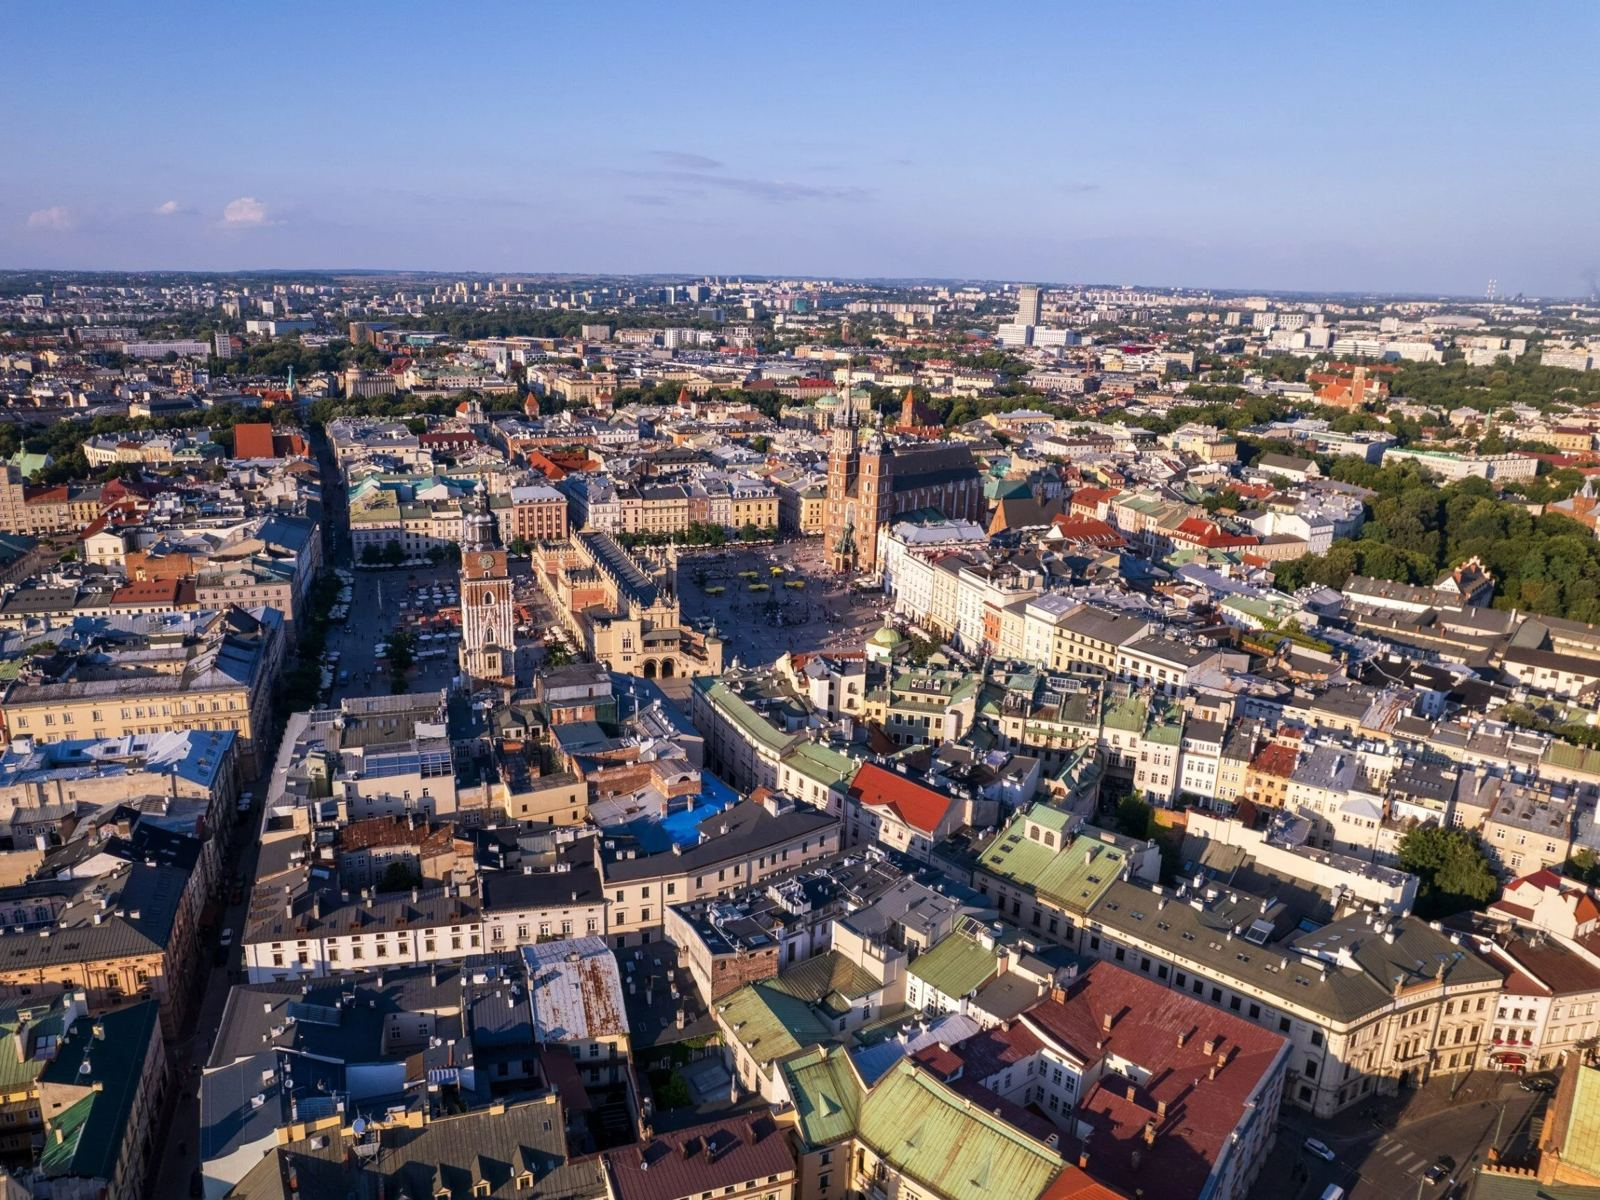
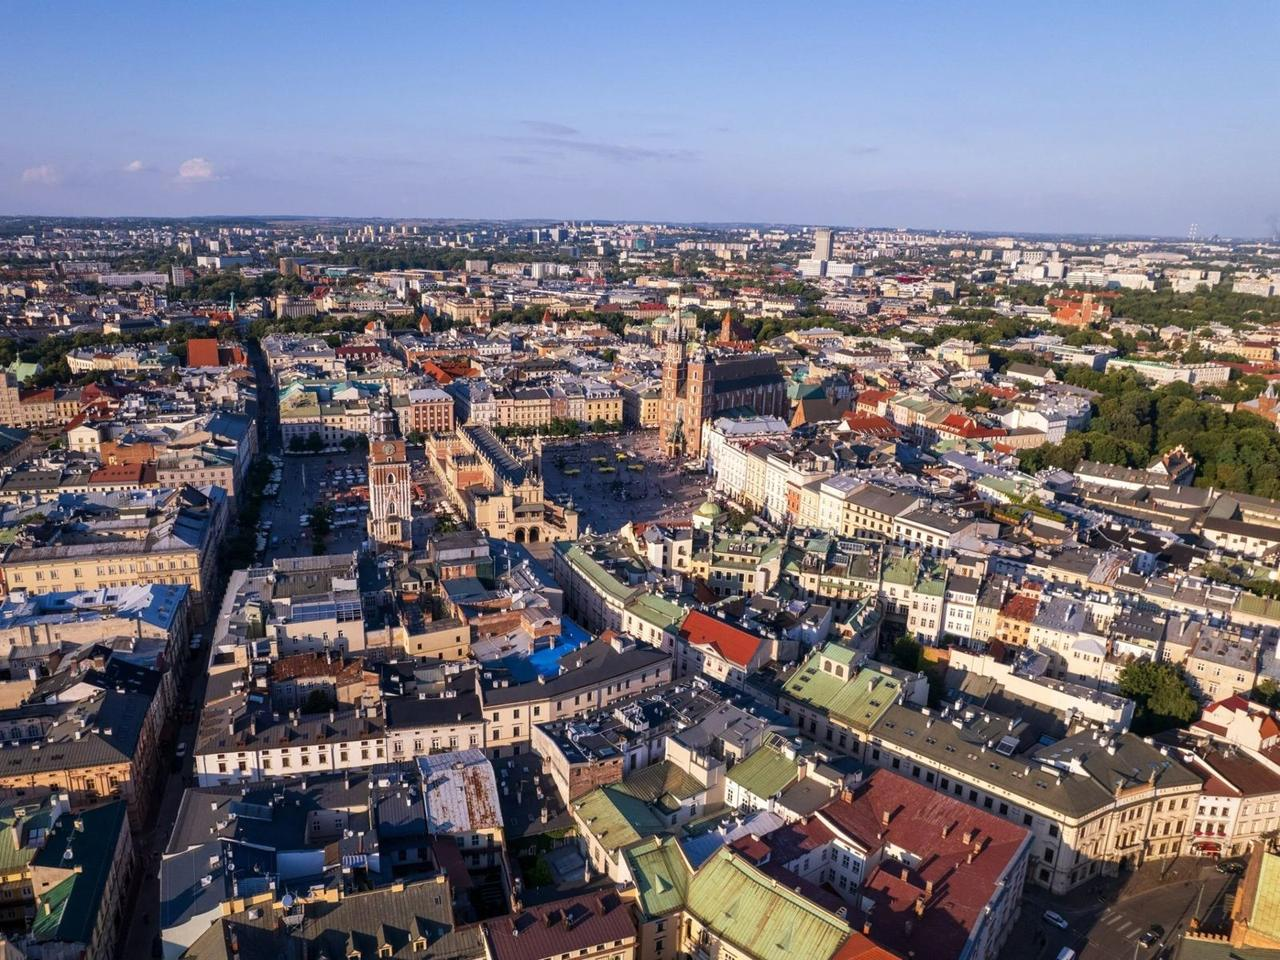
Słaby internet: schowek apki (service worker) na mapę, nagrania i stronę; doładowanie następnego nagrania; lżejsze zdjęcia strony głównej
Claude-Session: https://claude.ai/code/session_01RUaYWWQsk6rVw8nLuPwhe9

diff --git a/sw.js b/sw.js
@@ -1,0 +1,191 @@
+/* ============================================================
+   SERVICE WORKER — "schowek" apki w telefonie
+   Dzięki niemu na słabym internecie (albo bez internetu):
+   - apka otwiera się z pamięci telefonu, jeśli sieć nie odpowie w 4 sekundy,
+   - raz obejrzane kawałki mapy (kafelki) są brane z telefonu, a nie z sieci,
+   - raz odsłuchane / doładowane nagrania grają z telefonu.
+   Zmiana numeru wersji poniżej czyści stare schowki u wszystkich.
+============================================================ */
+const VERSION = 'v1';
+const SHELL = 'krakroam-shell-' + VERSION;   // sama apka (strona, ikony)
+const LIBS = 'krakroam-libs-' + VERSION;     // biblioteka mapy i czcionki z zewnętrznych serwerów
+const TILES = 'krakroam-tiles-' + VERSION;   // kafelki mapy
+const AUDIO = 'krakroam-audio-' + VERSION;   // nagrania
+const KEEP = [SHELL, LIBS, TILES, AUDIO];
+
+const MAX_TILES = 2500;            // ok. 50–80 MB zdjęć satelitarnych, starsze kasujemy
+const AUDIO_FRESH_MS = 3 * 24 * 3600 * 1000; // po 3 dniach sprawdzamy, czy nagranie nie zostało podmienione
+const PAGE_TIMEOUT_MS = 4000;
+
+const SHELL_FILES = ['/', '/manifest.json', '/icon-180.png', '/icon-192.png'];
+const LIB_FILES = [
+  'https://cdnjs.cloudflare.com/ajax/libs/leaflet/1.9.4/leaflet.min.css',
+  'https://cdnjs.cloudflare.com/ajax/libs/leaflet.markercluster/1.5.3/MarkerCluster.css',
+  'https://cdnjs.cloudflare.com/ajax/libs/leaflet.markercluster/1.5.3/MarkerCluster.Default.css',
+  'https://cdnjs.cloudflare.com/ajax/libs/leaflet/1.9.4/leaflet.min.js',
+  'https://cdnjs.cloudflare.com/ajax/libs/leaflet.markercluster/1.5.3/leaflet.markercluster.js'
+];
+
+self.addEventListener('install', event => {
+  event.waitUntil((async () => {
+    // każdy plik osobno — jeden nieudany nie blokuje reszty
+    const shell = await caches.open(SHELL);
+    await Promise.all(SHELL_FILES.map(u => shell.add(u).catch(() => {})));
+    const libs = await caches.open(LIBS);
+    await Promise.all(LIB_FILES.map(u => libs.add(u).catch(() => {})));
+    await self.skipWaiting();
+  })());
+});
+
+self.addEventListener('activate', event => {
+  event.waitUntil((async () => {
+    for (const k of await caches.keys()) if (!KEEP.includes(k)) await caches.delete(k);
+    await self.clients.claim();
+  })());
+});
+
+self.addEventListener('fetch', event => {
+  const req = event.request;
+  if (req.method !== 'GET') return;
+  const url = new URL(req.url);
+
+  if (url.origin === location.origin) {
+    if (req.mode === 'navigate') {
+      if (url.pathname === '/' || url.pathname === '/index.html') event.respondWith(pageResponse(req));
+      return;
+    }
+    if (url.pathname.startsWith('/audio/') && url.pathname.endsWith('.mp3')) {
+      event.respondWith(audioResponse(event, req));
+      return;
+    }
+    if (url.pathname.startsWith('/foto/') || SHELL_FILES.includes(url.pathname)) {
+      event.respondWith(staleWhileRevalidate(event, req, SHELL));
+    }
+    return;
+  }
+
+  if (url.hostname === 'server.arcgisonline.com' || url.hostname.endsWith('tile.openstreetmap.org')) {
+    event.respondWith(tileResponse(event, req));
+    return;
+  }
+  if (url.hostname === 'cdnjs.cloudflare.com' || url.hostname === 'fonts.gstatic.com') {
+    event.respondWith(cacheFirst(event, req, LIBS)); // adresy z numerem wersji — nigdy się nie zmieniają
+    return;
+  }
+  if (url.hostname === 'fonts.googleapis.com') {
+    event.respondWith(staleWhileRevalidate(event, req, LIBS));
+  }
+  // reszta (np. wyznaczanie trasy pieszej) idzie normalnie przez sieć
+});
+
+/* --- strona apki: najpierw sieć (żeby nowe wersje docierały od razu), a gdy sieć nie odpowie w 4 s — kopia z telefonu --- */
+async function pageResponse(req) {
+  const cache = await caches.open(SHELL);
+  const network = fetch(req).then(res => {
+    if (res.ok && !res.redirected) cache.put('/', res.clone());
+    return res;
+  });
+  const cached = await cache.match('/');
+  if (!cached) return network;
+  const timeout = new Promise(resolve => setTimeout(() => resolve(null), PAGE_TIMEOUT_MS));
+  const fast = await Promise.race([network.catch(() => null), timeout]);
+  return fast || cached;
+}
+
+/* --- kafelki mapy: z telefonu, a gdy ich nie ma — z sieci i od razu zapisujemy --- */
+const noCors = new Set(); // serwery bez zgody na zapis kafelków (CORS) — wtedy tylko pokazujemy, bez zapisu
+let tilePuts = 0;
+async function tileResponse(event, req) {
+  const cache = await caches.open(TILES);
+  const hit = await cache.match(req.url);
+  if (hit) return hit;
+  const host = new URL(req.url).hostname;
+  let res = null;
+  if (!noCors.has(host)) {
+    try { res = await fetch(req.url, { mode: 'cors', credentials: 'omit' }); } catch (_) {}
+  }
+  if (!res) {
+    res = await fetch(req); // gdy i to się nie uda, to po prostu nie ma sieci
+    noCors.add(host);
+    return res;
+  }
+  if (res.ok) {
+    event.waitUntil(cache.put(req.url, res.clone()).then(() => {
+      if (++tilePuts % 100 === 0) return trimCache(TILES, MAX_TILES);
+    }).catch(() => {}));
+  }
+  return res;
+}
+
+async function trimCache(name, max) {
+  const cache = await caches.open(name);
+  const keys = await cache.keys();
+  for (let i = 0; i < keys.length - max; i++) await cache.delete(keys[i]); // najstarsze są pierwsze
+}
+
+/* --- nagrania ---
+   Jest w telefonie → gramy z telefonu (także przewijanie).
+   Nie ma → gramy z sieci, a jeśli przyszedł cały plik, zapisujemy go przy okazji (bez pobierania drugi raz). */
+async function audioResponse(event, req) {
+  const cache = await caches.open(AUDIO);
+  const key = new URL(req.url).pathname;
+  const hit = await cache.match(key);
+  const fresh = hit && (Date.now() - (+hit.headers.get('x-saved-at') || 0) < AUDIO_FRESH_MS);
+  if (hit && fresh) return rangeFrom(hit, req.headers.get('range'));
+
+  let res;
+  try { res = await fetch(req); }
+  catch (e) { if (hit) return rangeFrom(hit, req.headers.get('range')); throw e; }
+
+  if (isWholeFile(res)) {
+    const copy = res.clone();
+    event.waitUntil(copy.blob().then(blob => cache.put(key, new Response(blob, {
+      headers: { 'Content-Type': 'audio/mpeg', 'Content-Length': String(blob.size), 'x-saved-at': String(Date.now()) }
+    }))).catch(() => {}));
+  }
+  return res;
+}
+
+function isWholeFile(res) {
+  if (res.status === 200) return true;
+  if (res.status !== 206) return false;
+  const m = /bytes 0-(\d+)\/(\d+)/.exec(res.headers.get('content-range') || '');
+  return !!m && +m[1] === +m[2] - 1;
+}
+
+async function rangeFrom(cached, range) {
+  const buf = await cached.arrayBuffer();
+  const size = buf.byteLength;
+  const base = { 'Content-Type': 'audio/mpeg', 'Accept-Ranges': 'bytes' };
+  const m = range && /bytes=(\d*)-(\d*)/.exec(range);
+  if (!m) return new Response(buf, { status: 200, headers: { ...base, 'Content-Length': String(size) } });
+  let start, end;
+  if (m[1] === '') { start = Math.max(0, size - (+m[2] || 0)); end = size - 1; }
+  else { start = +m[1]; end = m[2] ? Math.min(+m[2], size - 1) : size - 1; }
+  if (start >= size || end < start) return new Response(null, { status: 416, headers: { 'Content-Range': `bytes */${size}` } });
+  return new Response(buf.slice(start, end + 1), {
+    status: 206,
+    headers: { ...base, 'Content-Length': String(end - start + 1), 'Content-Range': `bytes ${start}-${end}/${size}` }
+  });
+}
+
+/* --- pomocnicze --- */
+async function cacheFirst(event, req, name) {
+  const cache = await caches.open(name);
+  const hit = await cache.match(req, { ignoreVary: true });
+  if (hit) return hit;
+  const res = await fetch(req);
+  if (res.ok || res.type === 'opaque') event.waitUntil(cache.put(req, res.clone()).catch(() => {}));
+  return res;
+}
+
+async function staleWhileRevalidate(event, req, name) {
+  const cache = await caches.open(name);
+  const hit = await cache.match(req, { ignoreVary: true, ignoreSearch: true });
+  const network = fetch(req).then(res => {
+    if (res.ok) return cache.put(req, res.clone()).then(() => res);
+    return res;
+  });
+  if (hit) { event.waitUntil(network.catch(() => {})); return hit; }
+  return network;
+}

diff --git a/index.html b/index.html
@@ -20,7 +20,7 @@
 <link rel="stylesheet" href="https://cdnjs.cloudflare.com/ajax/libs/leaflet.markercluster/1.5.3/MarkerCluster.Default.css" />
 <link rel="preconnect" href="https://fonts.googleapis.com">
 <link rel="preconnect" href="https://fonts.gstatic.com" crossorigin>
-<link href="https://fonts.googleapis.com/css2?family=Inter:wght@400;500;600;700;800;900&display=swap" rel="stylesheet">
+<link href="https://fonts.googleapis.com/css2?family=Inter:wght@400;500;600;700;800&display=swap" rel="stylesheet">
 
 <style>
   :root {
@@ -2305,7 +2305,9 @@ const osmLayer = L.tileLayer('https://{s}.tile.openstreetmap.org/{z}/{x}/{y}.png
 
 const satLayer = L.tileLayer('https://server.arcgisonline.com/ArcGIS/rest/services/World_Imagery/MapServer/tile/{z}/{y}/{x}', {
   maxZoom: 19,
-  keepBuffer: isSlowConnection ? 1 : 3
+  keepBuffer: isSlowConnection ? 1 : 3,
+  updateWhenIdle: isSlowConnection ? true : false, // na słabym internecie nie ściągamy kafelków "w locie" podczas przesuwania
+  updateWhenZooming: false
 });
 
 satLayer.addTo(map);
@@ -2371,8 +2373,16 @@ function prefetchTilesForArea() {
   loadNext();
 }
 
-// startujemy dopiero, gdy główny widok mapy się już wyrenderuje, żeby nie konkurować o pasmo z pierwszym ładowaniem
-setTimeout(prefetchTilesForArea, 800);
+// startujemy dopiero, gdy główny widok mapy się już wyrenderuje, żeby nie konkurować o pasmo z pierwszym ładowaniem.
+// Jeśli działa "schowek" apki (sw.js), czekamy aż przejmie stronę — wtedy doładowane kafelki zostają w telefonie
+// i później, na słabym zasięgu albo bez internetu, mapa centrum jest od razu.
+setTimeout(() => {
+  if (!('serviceWorker' in navigator) || navigator.serviceWorker.controller) { prefetchTilesForArea(); return; }
+  let started = false;
+  const go = () => { if (!started) { started = true; prefetchTilesForArea(); } };
+  navigator.serviceWorker.addEventListener('controllerchange', go);
+  setTimeout(go, 6000);
+}, 800);
 
 /* ============================================================
    DŹWIĘKI INTERFEJSU (kliknięcia, start nawigacji, menu)
@@ -3856,6 +3866,32 @@ audioEl.addEventListener('pause', () => setPlayIcon(false));
 audioEl.addEventListener('durationchange', () => { if (isFinite(audioEl.duration)) showTimes(audioEl.currentTime); });
 audioEl.addEventListener('error', () => { setPlayIcon(false); if (audioEl.getAttribute('src')) noAudioNote.style.display = 'block'; }); // plik zepsuty/niedostępny — nie zostawiamy ikony "odtwarza"
 
+// Doładowanie NASTĘPNEGO nagrania w tle, gdy obecne już się całe wczytało (albo gra od 30 s).
+// "Schowek" apki (sw.js) zapisuje je w telefonie, więc "następne" startuje od razu, nawet przy słabym zasięgu.
+let prefetchedFor = null, prefetchTimer = null;
+function prefetchNextTrack() {
+  const src = audioEl.getAttribute('src');
+  if (!src || prefetchedFor === src) return;
+  prefetchedFor = src;
+  clearTimeout(prefetchTimer);
+  const list = playableTracks();
+  const pos = list.findIndex(x => x.point === loadedPoint && x.i === loadedTrackIndex);
+  const next = pos >= 0 ? list[pos + 1] : null;
+  if (!next) return;
+  fetch(next.point.tracks[next.i].audio).then(r => r.blob()).catch(() => {});
+}
+function fullyBuffered() {
+  const b = audioEl.buffered, d = audioEl.duration;
+  return b.length > 0 && isFinite(d) && d > 0 && b.end(b.length - 1) >= d - 1;
+}
+['progress', 'timeupdate'].forEach(ev => audioEl.addEventListener(ev, () => { if (prefetchedFor !== audioEl.getAttribute('src') && fullyBuffered()) prefetchNextTrack(); }));
+audioEl.addEventListener('playing', () => {
+  if (fullyBuffered()) { prefetchNextTrack(); return; }
+  const src = audioEl.getAttribute('src');
+  clearTimeout(prefetchTimer);
+  prefetchTimer = setTimeout(() => { if (audioEl.getAttribute('src') === src && !audioEl.paused) prefetchNextTrack(); }, 30000);
+});
+
 // przewijanie: stuknięcie lub przeciągnięcie palcem po pasku postępu
 // przewijanie palcem: pasek w odtwarzaczu i cienka linia na zsuniętym pasku
 function seekPct(e, el) {
@@ -4155,6 +4191,11 @@ if (savedLang && savedUnlocked) {
   document.getElementById('pw-screen').classList.remove('hidden');
 }
 // jeśli brak zapamiętanego języka — ekran wyboru języka zostaje domyślnie widoczny, nic więcej nie robimy
+
+// "Schowek" apki w telefonie (sw.js): szybsze otwieranie, mapa i nagrania z pamięci telefonu na słabym zasięgu
+if ('serviceWorker' in navigator && !/^(www\.)?krakroam\.pl$/.test(location.hostname)) {
+  window.addEventListener('load', () => { navigator.serviceWorker.register('/sw.js').catch(() => {}); });
+}
 </script>
 </body>
 </html>
